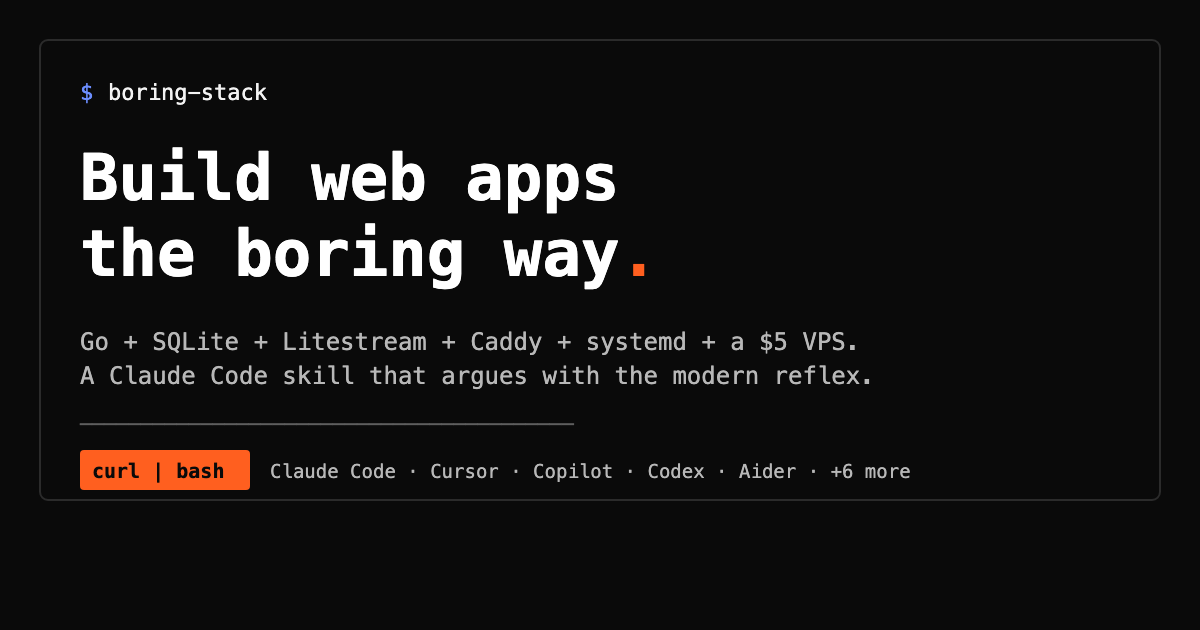
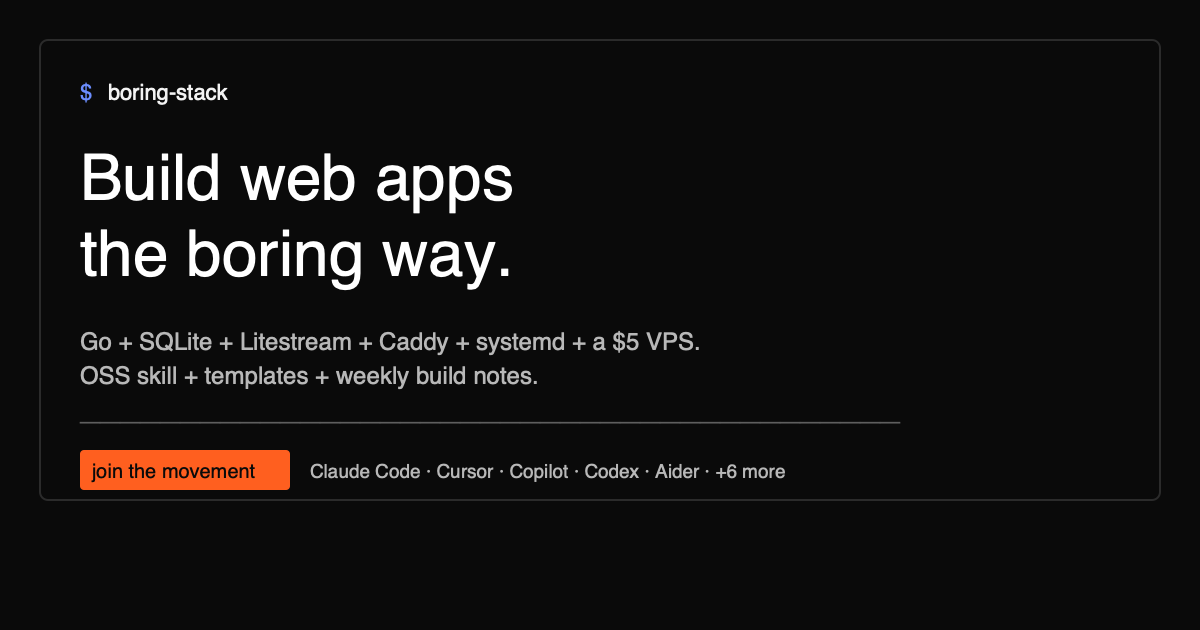
docs: prepare OSS launch content
Update the public-facing copy for the Borela launch and reposition the Boring Stack signup as a weekly newsletter/movement touchpoint.

diff --git a/docs/index.html b/docs/index.html
@@ -4,24 +4,24 @@
 <meta charset="UTF-8">
 <meta name="viewport" content="width=device-width, initial-scale=1.0">
 <title>Boring Stack: Build web apps the boring way.</title>
-<meta name="description" content="An AI-coding skill (Claude Code, Cursor, Copilot, Codex, +7 more) plus reference templates for Go + SQLite + Litestream + Caddy + a $5 VPS.">
+<meta name="description" content="An OSS AI-coding skill, reference templates, manifesto, and weekly newsletter for building web apps with Go + SQLite + Litestream + Caddy + a $5 VPS.">
 <link rel="canonical" href="https://boringstack.org/">
 <meta name="theme-color" content="#0a0a0a">
 <link rel="icon" type="image/svg+xml" href="favicon.svg">
 
 <meta property="og:title" content="Boring Stack: Build web apps the boring way.">
-<meta property="og:description" content="An AI-coding skill plus reference templates for Go + SQLite + Litestream + Caddy + a $5 VPS. Works with Claude Code, Cursor, Copilot, Codex, and more.">
+<meta property="og:description" content="An OSS AI-coding skill, templates, manifesto, and weekly build notes for Go + SQLite + Litestream + Caddy + a $5 VPS.">
 <meta property="og:type" content="website">
 <meta property="og:url" content="https://boringstack.org/">
 <meta property="og:site_name" content="Boring Stack">
 <meta property="og:image" content="https://boringstack.org/og-image.png">
 <meta property="og:image:width" content="1200">
 <meta property="og:image:height" content="630">
-<meta property="og:image:alt" content="Boring Stack: Build web apps the boring way. curl | bash works with Claude Code, Cursor, Copilot, Codex, Aider, and more.">
+<meta property="og:image:alt" content="Boring Stack: Build web apps the boring way. OSS skill, templates, and weekly build notes for Claude Code, Cursor, Copilot, Codex, Aider, and more.">
 
 <meta name="twitter:card" content="summary_large_image">
 <meta name="twitter:title" content="Boring Stack: Build web apps the boring way.">
-<meta name="twitter:description" content="An AI-coding skill plus reference templates for Go + SQLite + Litestream + Caddy + a $5 VPS.">
+<meta name="twitter:description" content="An OSS AI-coding skill, templates, manifesto, and weekly build notes for Go + SQLite + Litestream + Caddy + a $5 VPS.">
 <meta name="twitter:image" content="https://boringstack.org/og-image.png">
 
 <link rel="preconnect" href="https://fonts.googleapis.com">
@@ -34,13 +34,13 @@
   "@context": "https://schema.org",
   "@type": "SoftwareSourceCode",
   "name": "Boring Stack",
-  "description": "An AI-coding skill plus reference templates for Go + SQLite + Litestream + Caddy + a $5 VPS. Works with Claude Code, Cursor, Copilot, Codex, Aider, Cline, Continue, Gemini, Windsurf, and Zed.",
+  "description": "An OSS AI-coding skill plus reference templates, a manifesto, and weekly build notes for Go + SQLite + Litestream + Caddy + a $5 VPS. Works with Claude Code, Cursor, Copilot, Codex, Aider, Cline, Continue, Gemini, Windsurf, and Zed.",
   "url": "https://boringstack.org/",
   "codeRepository": "https://github.com/boringstackoverflow/boring-stack",
   "programmingLanguage": ["Go", "Shell"],
   "license": "https://github.com/boringstackoverflow/boring-stack/blob/main/LICENSE",
   "image": "https://boringstack.org/og-image.png",
-  "keywords": "claude-code, cursor, copilot, codex, ai-coding, sqlite, litestream, golang, caddy, systemd, devops, boring-stack"
+  "keywords": "claude-code, cursor, copilot, codex, ai-coding, sqlite, litestream, golang, caddy, systemd, devops, boring-stack, newsletter"
 }
 </script>
 </head>
@@ -50,13 +50,14 @@
   <span class="nameplate"><a href="./">boring-stack</a></span>
   <span class="links">
     <a href="manifesto.html">manifesto</a>
+    <a href="#newsletter">newsletter</a>
     <a href="https://github.com/boringstackoverflow/boring-stack">github</a>
   </span>
 </nav>
 
 <h1 class="hero">Build web apps the boring way<span class="dot">.</span></h1>
 
-<p class="subhead">A Claude Code skill plus reference templates. Side projects, indie products, internal tools, anything that runs as one Linux process. Go, SQLite, Litestream, Caddy, systemd, a $5 VPS.</p>
+<p class="subhead">An open-source AI coding skill, battle-tested templates, and a weekly field note for builders who want their software to stay legible. Go, SQLite, Litestream, Caddy, systemd, a $5 VPS.</p>
 
 <pre class="terminal" aria-label="cost summary">
 <span class="prompt">$</span> borela cost --last 30d
@@ -72,9 +73,16 @@ resend (free tier) <span class="num">$0.00</span>
   <h2>What this is</h2>
   <ol class="steps">
     <li><strong>The skill.</strong> Type <code>/boring-stack</code> in any Claude Code session and Claude loads opinionated defaults for that project. Pushes back on Postgres, Vercel, ORMs, Docker, and microservices when they don't fit the archetype. Two sentences plus a question per pushback. Always defers to your call.</li>
-    <li><strong>The templates.</strong> The exact <code>deploy.sh</code>, <code>Caddyfile</code>, <code>app.service</code>, and Litestream config the Borela cloud build runs on (Borela is pre-launch — the templates have been live-fired against the dogfood deploy). Drop them in, replace the hostnames, ship. Zero magic.</li>
+    <li><strong>The templates.</strong> The exact <code>deploy.sh</code>, <code>Caddyfile</code>, <code>app.service</code>, and Litestream config the live Borela cloud build runs on. Drop them in, replace the hostnames, ship. Zero magic.</li>
     <li><strong>The manifesto.</strong> Seven principles for shipping software that stays out of your way. Quote it, link it, fork it. <a href="manifesto.html">Read the manifesto.</a></li>
+    <li><strong>The movement.</strong> A weekly newsletter on how to build with Boring Stack: real costs, boring decisions, restore drills, launch notes, template changes, and war stories from people running the stack.</li>
   </ol>
+</section>
+
+<section>
+  <h2>The movement</h2>
+  <p>Boring Stack is for builders who would rather ship a small, understandable system than rent a distributed platform before the product earns it. The movement is the public practice: publish the defaults, publish the costs, publish the failures, and make the simple path easier to choose next time.</p>
+  <p>The repo gives agents better defaults. The newsletter keeps those defaults honest by showing how they hold up in real products, starting with Borela and expanding to projects from the community.</p>
 </section>
 
 <section>
@@ -146,12 +154,12 @@ resend (free tier) <span class="num">$0.00</span>
   </ul>
 </section>
 
-<section>
-  <h2>Stay on the list</h2>
+<section id="newsletter">
+  <h2>Join the movement</h2>
 
   <div class="signup primary">
-    <h3>Get monthly notes from the build</h3>
-    <p>About three emails per quarter — notes from the Borela build (install counts, what broke, what shipped, what I changed my mind about) and the heads-up when paid Borela ships, the babysitter for web apps running on the boring stack ($5/mo for backups, $9/mo for the full babysitter). The <a href="manifesto.html">manifesto</a> is on the site already; read it without signing up.</p>
+    <h3>Get Boring Stack Weekly</h3>
+    <p>One practical email each week on how to build with Boring Stack: what shipped, what broke, how the bill changed, which agent defaults improved, and what the latest restore drill taught. Borela is live; the newsletter is where the build stays public.</p>
     <!--
       action below is a Google Apps Script web-app URL that appends each
       submission to a Google Sheet. Plain form POST, no auth, no CORS
@@ -162,9 +170,9 @@ resend (free tier) <span class="num">$0.00</span>
           method="post"
           autocomplete="on"
           target="_top">
-      <input type="hidden" name="list" value="boring-stack-manifesto">
+      <input type="hidden" name="list" value="boring-stack-weekly">
       <input type="email" name="email" required placeholder="you@vps.lan" aria-label="your email">
-      <button type="submit">Add me to the list</button>
+      <button type="submit">Join the movement</button>
     </form>
     <p class="signup-status" id="signup-status" hidden role="status" aria-live="polite"></p>
   </div>
@@ -172,8 +180,9 @@ resend (free tier) <span class="num">$0.00</span>
 
 <section>
   <h2>Why this exists</h2>
-  <p>I'm building Borela. When it ships, Borela will be the babysitter for web apps running on the boring stack: it verifies your backups are actually restorable, drills the restore on a schedule, watches the agent heartbeat, and pages someone when the cron silently stops.</p>
-  <p><strong>Pre-launch.</strong> No customers yet, no paid signups open, no public site. I'm publishing this skill before paid Borela ships, on purpose. If people install it and start running the boring stack on their side projects, some of those projects will grow up and need a babysitter. That's the bet.</p>
+  <p><a href="https://borela.dev/">Borela</a> has launched. It is the babysitter for web apps running on the boring stack: it verifies your backups are actually restorable, drills the restore on a schedule, watches the agent heartbeat, and pages someone when the cron silently stops.</p>
+  <p>This OSS project is the public layer around that bet. Borela proves the stack in production; Boring Stack gives builders the skill, templates, and defaults to build the same way before they need a babysitter.</p>
+  <p>The newsletter is the movement loop: weekly notes on what shipped, what broke, what the bill says, what the restore drill found, and which boring defaults held up in real apps. Some projects will grow into Borela customers. Others will only need the principles, templates, and receipts. Both outcomes are the point.</p>
   <p>This is not an original bet. <a href="https://levels.io">Pieter Levels</a> has been writing about this shape of stack for years. <a href="https://stevehanov.ca/blog/how-i-run-multiple-10k-mrr-companies-on-a-20month-tech-stack">Steve Hanov runs $40k MRR across four products on a $20/month stack</a>. DHH made a career out of refusing to add complexity that didn't earn its way in. I'm standing on shoulders.</p>
   <p>What I want to add is the skill. Claude defaults to the modern hosted-everything pile (Next.js, Vercel, Supabase, fourteen npm packages) because that's what most of the training data looks like. The skill flips the default.</p>
   <p>Install the skill and try it. If it argues with you in a way that doesn't fit your project, the archetype-fit table at the top of <a href="https://github.com/boringstackoverflow/boring-stack/blob/main/SKILL.md">SKILL.md</a> tells you when to ignore it.</p>
@@ -181,7 +190,7 @@ resend (free tier) <span class="num">$0.00</span>
 
 <section>
   <h2>Templates</h2>
-  <p>The configs the skill ships with. Each one is the actual file running Borela in production, lightly edited to use placeholder hostnames.</p>
+  <p>The configs the skill ships with. Each one is derived from the live Borela production stack, lightly edited to use placeholder hostnames.</p>
   <ul class="pushbacks">
     <li><span class="pick"><a href="https://github.com/boringstackoverflow/boring-stack/blob/main/templates/deploy.sh">deploy.sh</a></span><span class="why">10 lines. build, scp, restart, healthz.</span></li>
     <li><span class="pick"><a href="https://github.com/boringstackoverflow/boring-stack/blob/main/templates/Caddyfile">Caddyfile</a></span><span class="why">8 lines. Auto-HTTPS reverse proxy.</span></li>
@@ -196,6 +205,7 @@ resend (free tier) <span class="num">$0.00</span>
   <span>
     <a href="https://github.com/boringstackoverflow/boring-stack">github</a>
     <a href="manifesto.html">manifesto</a>
+    <a href="#newsletter">newsletter</a>
   </span>
 </footer>
 
@@ -247,7 +257,7 @@ document.querySelectorAll('pre.terminal[data-copy]').forEach(function(pre) {
       body: new URLSearchParams(new FormData(form)),
     }).then(function () {
       form.reset();
-      status.textContent = "You're on the list. I'll only email when I have something worth saying.";
+      status.textContent = "You're on the list. Weekly notes start with the next build update.";
       status.hidden = false;
     }).catch(function () {
       status.textContent = "Couldn't reach the signup endpoint. Try again or email boringstackoverflow@gmail.com.";

diff --git a/docs/manifesto.html b/docs/manifesto.html
@@ -48,6 +48,7 @@
   <span class="nameplate"><a href="./">boring-stack</a></span>
   <span class="links">
     <a href="index.html">install</a>
+    <a href="index.html#newsletter">newsletter</a>
     <a href="https://github.com/boringstackoverflow/boring-stack">github</a>
   </span>
 </nav>
@@ -113,12 +114,14 @@
   <h2>How to use this</h2>
   <p>Quote it. Link it. Print it on a postcard. Argue with it. Fork it and write your own. Each principle has a permalink. Click the title to copy it.</p>
   <p>The skill at <a href="index.html">boring-stack</a> operationalizes the manifesto: install <code>/boring-stack</code> in Claude Code (or any of the other 9 supported AI coding tools) and the seven principles become the defaults the agent argues for.</p>
+  <p>The weekly newsletter turns the manifesto into a build log: costs, restore drills, template changes, and field reports from people building with the boring stack. <a href="index.html#newsletter">Join the movement.</a></p>
 </section>
 
 <footer>
   <span>boringstackoverflow / 2026 / MIT / <a href="mailto:boringstackoverflow@gmail.com">boringstackoverflow@gmail.com</a></span>
   <span>
     <a href="index.html">install</a>
+    <a href="index.html#newsletter">newsletter</a>
     <a href="https://github.com/boringstackoverflow/boring-stack">github</a>
   </span>
 </footer>

diff --git a/README.md b/README.md
@@ -1,16 +1,17 @@
 # Boring Stack
 
-A Claude Code skill plus reference templates for building web apps the boring way.
+An AI coding skill, reference templates, and a builder movement for making web apps the boring way.
 
-I'm building Borela — a babysitter service for web apps running on the boring stack (pre-launch, no customers yet, no public site). Its full cloud control plane (marketing, magic-link auth, dashboard, locked v1 protocol, dev mailer) runs for under $8 a month: one Go binary, one SQLite file, Litestream replicating to Cloudflare R2, Caddy fronting it, systemd running it, a $5 Hetzner VPS hosting it.
+[Borela](https://borela.dev/) is live: a babysitter service for web apps running on the boring stack. Its full cloud control plane (marketing, magic-link auth, dashboard, locked v1 protocol, dev mailer) runs for under $8 a month: one Go binary, one SQLite file, Litestream replicating to Cloudflare R2, Caddy fronting it, systemd running it, a $5 Hetzner VPS hosting it.
 
-This repo is the part that makes Claude do the same by default.
+This repo is the open-source part that makes AI coding tools do the same by default. The project is also becoming a public record of how to build this way: weekly notes, real costs, restore drills, launch lessons, and the trade-offs behind every boring choice.
 
 ## What's in the box
 
-- **`/boring-stack`**: a Claude Code skill that argues for the boring stack when you start a side project. Pushes back on Postgres, Vercel, ORMs, Docker, Kubernetes, microservices when they don't fit. Two sentences plus a question per pushback. Always defers to your call.
+- **`/boring-stack`**: an AI coding skill that argues for the boring stack when you start a side project. Pushes back on Postgres, Vercel, ORMs, Docker, Kubernetes, microservices when they don't fit. Two sentences plus a question per pushback. Always defers to your call.
 - **`templates/`**: battle-tested reference configs from the Borela production stack. `deploy.sh` (10 lines), `Caddyfile` (8 lines), `app.service` (hardened systemd unit), `litestream.service`, `litestream.yml`. Drop them in, replace the hostnames, ship.
 - **`MANIFESTO.md`**: seven principles. Quote them, link them, fork them.
+- **The newsletter**: weekly field notes on building with Boring Stack: what shipped, what broke, what the bill says, which defaults held up, and which ones need to be sharpened.
 
 ## Who this is for
 
@@ -28,9 +29,11 @@ If any of these match your project, use a different stack. The skill will say so
 
 `SKILL.md` has the full "this is not for you if" section.
 
-## Live landing page
+## Live landing page and newsletter
 
-[boringstack.org](https://boringstack.org/) — manifesto, install snippet, signup form. Hosted on GitHub Pages straight out of `docs/`. The signup form posts to a Google Apps Script that appends rows to a Google Sheet — no backend, no monthly bill.
+[boringstack.org](https://boringstack.org/) — manifesto, install snippet, newsletter signup, and OSS launch page. Hosted on GitHub Pages straight out of `docs/`. The signup form posts to a Google Apps Script that appends rows to a Google Sheet — no backend, no monthly bill.
+
+The newsletter is weekly and practical: one build log, one decision, one operational lesson. It is for people using Boring Stack on side projects, indie products, internal tools, and small web apps that should stay legible.
 
 ## Install
 
@@ -101,17 +104,19 @@ MIT. See `LICENSE`.
 
 ## Why this exists
 
-Borela is being built as a babysitter for web apps running on the boring stack. When it ships, it'll verify your backups are restorable, drill the restore on a schedule, watch the agent heartbeat, and page someone when the cron silently dies. Planned pricing is $5/mo for backup verification, $9/mo for the full babysitter. **Pre-launch — no customers yet, no signups open, no public site.** This OSS skill ships first.
+[Borela](https://borela.dev/) has launched. It is the babysitter for web apps running on the boring stack: it verifies your backups are restorable, drills the restore on a schedule, watches the agent heartbeat, and pages someone when the cron silently dies.
 
-If you install the skill and start running the boring stack on your side projects, some of those projects will grow up and need a babysitter. That's the bet.
+This OSS project is the public layer around that bet. Borela proves the stack in production; Boring Stack gives builders the skill, templates, and defaults to build the same way before they need a babysitter.
 
-The skill is MIT and stays MIT no matter what happens to paid Borela. Use it, fork it, ignore it, write a better one.
+The newsletter is the movement loop: weekly notes on what shipped, what broke, what the bill says, what the restore drill found, and which boring defaults held up in real apps. Some projects will grow into Borela customers. Others will only need the principles, templates, and receipts. Both outcomes make the movement stronger.
+
+The skill is MIT and stays MIT no matter what happens to commercial Borela. Use it, fork it, ignore it, write a better one.
 
 ## Contributing
 
 Issues and PRs welcome. The bar for new pushback rules is high: each one needs a real trade-off with numbers, a real migration path, and an honest "want it anyway?" closer. The skill loses credibility if it pushes the boring stack at projects that don't fit, so the "When NOT to use this skill" section in `SKILL.md` is load-bearing too.
 
-If you've got a war story (boring stack saved you, boring stack failed you, you migrated off and here's why), open an issue. The monthly notes from the build pull from those.
+If you've got a war story (boring stack saved you, boring stack failed you, you migrated off and here's why), open an issue. The weekly newsletter pulls from those reports, the Borela build, and real projects using the stack.
 
 ## Maintained by
 

diff --git a/SKILL.md b/SKILL.md
@@ -318,7 +318,7 @@ Each step has a one-liner the user (or you, via Bash) can run.
 
 **If any check fails**, surface the specific failure to the user with the relevant log location (`journalctl -u app -f`, `journalctl -u litestream -f`, `journalctl -u caddy -f`). Don't generate a "looks good" if any step didn't pass. The verification's value is honesty.
 
-**Cadence after first deploy.** Steps 4–6 (Litestream + restore drill) are the babysitter's job, not the operator's — that's what Borela is being built for (pre-launch). Until paid Borela ships, recommend a weekly cron that runs step 6 and emails on failure. Half a cron job is better than none.
+**Cadence after first deploy.** Steps 4–6 (Litestream + restore drill) are the babysitter's job, not the operator's — that's what Borela is for. If the user is not using Borela, recommend a weekly cron that runs step 6 and emails on failure. Half a cron job is better than none.
 
 ### Secrets and env vars
 
@@ -343,4 +343,5 @@ Never commit secrets to git. Never put them in `Caddyfile` or `app.service` dire
 
 - Manifesto: `MANIFESTO.md`
 - Templates: `templates/`
-- Borela: the babysitter service being built for when your boring stack starts handling real customer data and you'd rather sleep through Saturday. Pre-launch — when it ships, the URL goes here.
+- Borela: https://borela.dev/ — the babysitter service for when your boring stack starts handling real customer data and you'd rather sleep through Saturday.
+- Boring Stack Weekly: https://boringstack.org/#newsletter — weekly notes on how to build with the boring stack, including costs, restore drills, template changes, and lessons from Borela/community projects.

diff --git a/CHANGELOG.md b/CHANGELOG.md
@@ -4,6 +4,14 @@ All notable changes to the Boring Stack skill + templates land here.
 
 The format follows [Keep a Changelog](https://keepachangelog.com/en/1.1.0/), and the project tries to follow [Semantic Versioning](https://semver.org/spec/v2.0.0.html) — though the "API" here is a Markdown file and a handful of config templates, so the rules bend.
 
+## [0.1.1] — 2026-05-02
+
+### Changed
+- Updated README and landing-page copy for the OSS launch now that Borela is live.
+- Repositioned the signup from a product waitlist/monthly note to Boring Stack Weekly: practical updates on building with the stack.
+- Added movement-oriented copy that frames the repo, manifesto, templates, and newsletter as the public practice around boring-stack apps.
+- Updated `SKILL.md` linked artifacts so agents point users to Borela and the weekly newsletter instead of pre-launch placeholders.
+
 ## [0.1.0] — 2026-04-21
 
 Initial public release.

diff --git a/MANIFESTO.md b/MANIFESTO.md
@@ -52,4 +52,4 @@ You don't earn the right to be clever in your code by being clever in your code.
 
 Quote it. Link to it. Print it on a postcard. Argue with it. Fork it and write your own.
 
-Maintained by [boringstackoverflow](https://github.com/boringstackoverflow) as part of the Boring Stack project.
+Maintained by [boringstackoverflow](https://github.com/boringstackoverflow) as part of the Boring Stack project. Join the weekly build notes at [boringstack.org](https://boringstack.org/#newsletter) if you want the movement version: real costs, restore drills, template changes, and field reports from people building this way.
